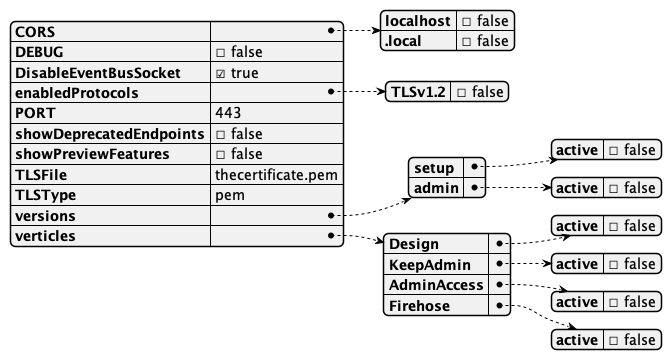
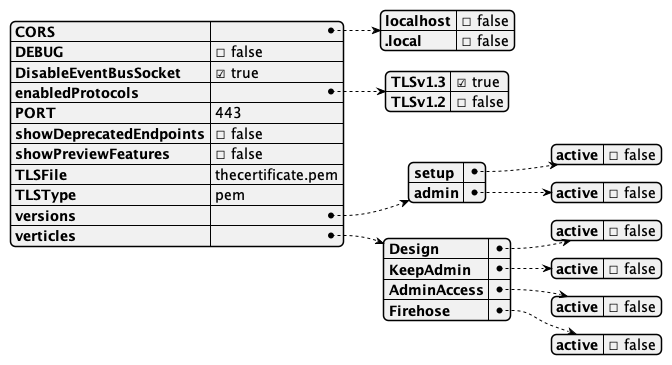
rename security/securityindex to security/index

diff --git a/docs/references/security/encryption.md b/docs/references/security/encryption.md
@@ -8,7 +8,7 @@ There are three areas in Domino REST API where encryption keys are needed:
 - JSON Web Token (JWT) signing
 - ID vault signing requests
 
-This page documents the creation of those keys. Check the [security](./securityindex.md) page for configuration details.
+This page documents the creation of those keys. Check the [security](./index.md) page for configuration details.
 
 ## HTTPs certificates for Domino REST API ports
 
@@ -31,7 +31,7 @@ Again: **It's generally better to use [LetsEncrypt](https://letsencrypt.org/)**.
 
 Domino REST API uses JWT for authentication. When you get started with Domino REST API, you probably log in with a Domino username and password. KEEP, out of the box, uses an ephemeral symmetric encryption key to sign requests. Since you can't see the key or share it, this configuration is reasonably secure. When you restart KEEP, a new key is used.
 
-To use a key that can be deployed to an external identity provider (IdP) or used to send requests to the Domino ID vault service, you must generate a public/private key pair and configure the [security](./securityindex.md) settings. Never share the private key!
+To use a key that can be deployed to an external identity provider (IdP) or used to send requests to the Domino ID vault service, you must generate a public/private key pair and configure the [security](index.md) settings. Never share the private key!
 
 Use the [OpenSSL](https://www.openssl.org/) tool to generate a key. The key is an [RSA](<https://en.wikipedia.org/wiki/RSA_(cryptosystem)>) key:
 
@@ -51,7 +51,7 @@ The parameter `-name secp521r1` defines the **ES512** encryption algorithm. Don'
 
 ## Encryption key to sign ID vault requests
 
-The required key is an ES512 elliptic-curve as described above. Domino REST API the private key safe and configure it in [security](./securityindex.md). The public key must be imported into the ID vault. Check the documentation there.
+The required key is an ES512 elliptic-curve as described above. Domino REST API the private key safe and configure it in [security](./index.md). The public key must be imported into the ID vault. Check the documentation there.
 
 ```bash
 openssl ecparam -genkey -name secp521r1 -noout -out privatekey.pem
@@ -102,15 +102,15 @@ The 4 files get created in your `keepconfig.d` directory. Distribute them to all
 - Login into the Management console (Port 8889).
 - Type a name you want to call this certificate into the "Certificate Name". No spaces or special characters.
 
-    - for example: MultiDomain
+  - for example: MultiDomain
 
 - Click "Create IdP certificate".
 - Domino REST API generates 4 files in this server's [Notesdata]/keepconfig.d directory:
 
-    - MultiDomain.cert.pem
-    - MultiDomain.json
-    - MultiDomain.private.key.pem
-    - MultiDomain.public.key.pem
+  - MultiDomain.cert.pem
+  - MultiDomain.json
+  - MultiDomain.private.key.pem
+  - MultiDomain.public.key.pem
 
 - Copy these 4 files to your other Domino servers into the [notesdata]/keepconfig.d directory.
 - Restart Domino REST API on all servers with this new configuration and you are they will now share the same JWT keys.

diff --git a/docs/references/security/securingKEEPEndpoints.md b/docs/references/security/securingKEEPEndpoints.md
@@ -14,7 +14,7 @@ Domino REST API uses three endpoints:
 
 Only one must be reachable by users (humans or servers). Configure your firewall accordingly and eventually use [a proxy](../../howto/web/httpsproxy.md).
 
-To be able to securely and efficiently deploy Domino REST API into a production environment, you must understand how Domino REST API configuration works. See the [configurating section](../security/securityindex.md) for a deeper dive.
+To be able to securely and efficiently deploy Domino REST API into a production environment, you must understand how Domino REST API configuration works. See the [configurating section](../security/index.md) for a deeper dive.
 
 The Domino REST API configuration includes the Domino REST API binary directory, `keepconfig.d`, and environment variables.
 
@@ -37,18 +37,18 @@ The credentials for the management endpoint are **deliberately NOT** retrieved f
 
 - Which ports to open and close:
 
-    - You must secure your admin port, 8889 and metrics port, 8890 from the outside world.
+  - You must secure your admin port, 8889 and metrics port, 8890 from the outside world.
 
 - How to handle HTTPS (via proxy or let Domino REST API handle it):
 
-    - For configuring HTTPS via proxy, see the example under [HTTPS via Proxy](../../howto/web/httpsproxy.md).
-    - Domino REST API supports three different types of certificates: PEM, JKS, and PKS.
+  - For configuring HTTPS via proxy, see the example under [HTTPS via Proxy](../../howto/web/httpsproxy.md).
+  - Domino REST API supports three different types of certificates: PEM, JKS, and PKS.
 
 - How to handle JWT authentication token:
 
-    - Single server built-in, where each server issues and uses their own JWT token.
-    - Multi-server built-in, where a multi-server environment reacts to the same JWT token.
-    - External identify provider, for example, Active Directory, [Keycloak](https://www.keycloak.org/), etc.
+  - Single server built-in, where each server issues and uses their own JWT token.
+  - Multi-server built-in, where a multi-server environment reacts to the same JWT token.
+  - External identify provider, for example, Active Directory, [Keycloak](https://www.keycloak.org/), etc.
 
 - Domino REST API can access encrypted resources when Domino's ID vault is deployed and the [KEEP SAML](../../howto/IdP/keepsaml.md) configuration is set up correctly.
-    - Details are still being ironed out on how to do this. This will be updated as soon as we have a solution.
+  - Details are still being ironed out on how to do this. This will be updated as soon as we have a solution.

diff --git a/docs/topicguides/introducingrestapi.md b/docs/topicguides/introducingrestapi.md
@@ -35,7 +35,7 @@ For example, the data in a Domino database that could earlier be viewed only in 
 The Domino REST API are secure and standards-compliant, making them the right choice for your Notes and Domino ecosystem.
 
 <!-- prettier-ignore -->
-!!! info 
+!!! info
     Much like the architectural keep that fortifies the castle, Project Domino REST API adds to the existing functionalities provided by Notes and Domino.
 
 <!-- prettier-ignore -->
@@ -58,7 +58,7 @@ Domino REST API is designed to work with:
 
 ### Domino REST API is secure
 
-Domino REST API is secure by default since it inherits all the [security features](../references/security/securityindex.md) of Notes and Domino. All access to the database is authenticated using [JSON Web Token (JWT)](https://jwt.io/) and [Scopes](../references/security/authentication.md). Identity can be provided using Domino credentials and/or your Enterprise IdP (Identity Provider) like Keycloak or Active Directory. The databases or forms and views that can be accessed are explicitly listed. Security extends to a field level read/write control by the [Barbican](../topicguides/barbican.md).
+Domino REST API is secure by default since it inherits all the [security features](../references/security/index.md) of Notes and Domino. All access to the database is authenticated using [JSON Web Token (JWT)](https://jwt.io/) and [Scopes](../references/security/authentication.md). Identity can be provided using Domino credentials and/or your Enterprise IdP (Identity Provider) like Keycloak or Active Directory. The databases or forms and views that can be accessed are explicitly listed. Security extends to a field level read/write control by the [Barbican](../topicguides/barbican.md).
 
 ### Modern Java API (Java 8++)
 

diff --git a/docs/tutorial/installconfig/index.md b/docs/tutorial/installconfig/index.md
@@ -117,7 +117,7 @@ The file contains one parameter per line. Lines starting with `#` get ignored. V
 
 ## Configuration & Security
 
-Domino REST API is preconfigured with settings that allow you to get started right away. It will run on **http** (not https) on port **8880**. However, you should familiarize yourself with all [configuration parameters](../../references/quickreference/parameters.md) and [security](../../references/security/securityindex.md) settings before you deploy into a production environment.
+Domino REST API is preconfigured with settings that allow you to get started right away. It will run on **http** (not https) on port **8880**. However, you should familiarize yourself with all [configuration parameters](../../references/quickreference/parameters.md) and [security](../../references/security/index.md) settings before you deploy into a production environment.
 
 <!-- prettier-ignore -->
 !!!tip

diff --git a/docs/references/usingdominorestapi/keepapplications.md b/docs/references/usingdominorestapi/keepapplications.md
@@ -44,7 +44,7 @@ Frameworks like Angular, ReactJS, Swelte etc. usually generate a `build` directo
 
 You can copy that directory to `keepweb.d` in your Domino data directory and Domino REST API will serve them on the `/keepweb/` URL path. This eliminates the need for CORS configuration.
 
-Check the details in [Security Configuration](../security/securityindex.md).
+Check the details in [Security Configuration](../security/index.md).
 
 ### Server based applications
 

diff --git a/docs/references/index.md b/docs/references/index.md
@@ -39,7 +39,7 @@ Provides information related to the [installation and configuration of Domino RE
 
 ## Security
 
-- [Security overview](security/securityindex.md)
+- [Security overview](security/index.md)
 - [Auth\*](security/authentication.md)
 - [Configuration parameters](security/configurationParameters.md)
 - [config.json](security/configjson.md)

diff --git a/docs/references/quickreference/parameters.md b/docs/references/quickreference/parameters.md
@@ -1,4 +1,4 @@
-# Parameters
+# COnfiguration Parameters
 
 The configuration is assembled from JSON files and a few selected environment parameters. We provide environment parameters because they are a popular way to configure instances in virtual environments such as Docker, IBM Cloud, and Kubernetes.
 

diff --git a/docs/howto/production/hardening.md b/docs/howto/production/hardening.md
@@ -27,6 +27,7 @@ The name, as long as it ends in `.json`, can ve choosen freely. It needs to be p
   "DEBUG": false,
   "DisableEventBusSocket": true,
   "enabledProtocols": {
+    "TLSv1.3": true,
     "TLSv1.2": false
   },
   "PORT": 443,
